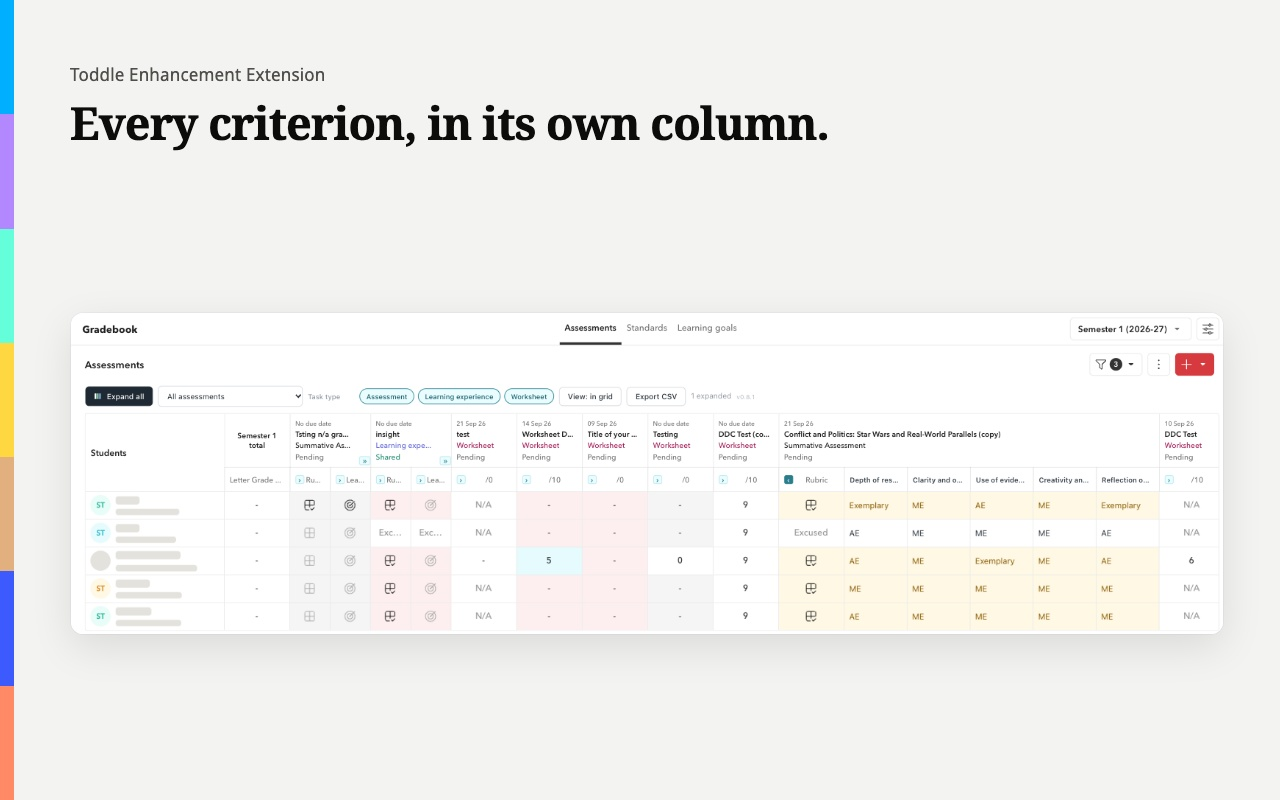
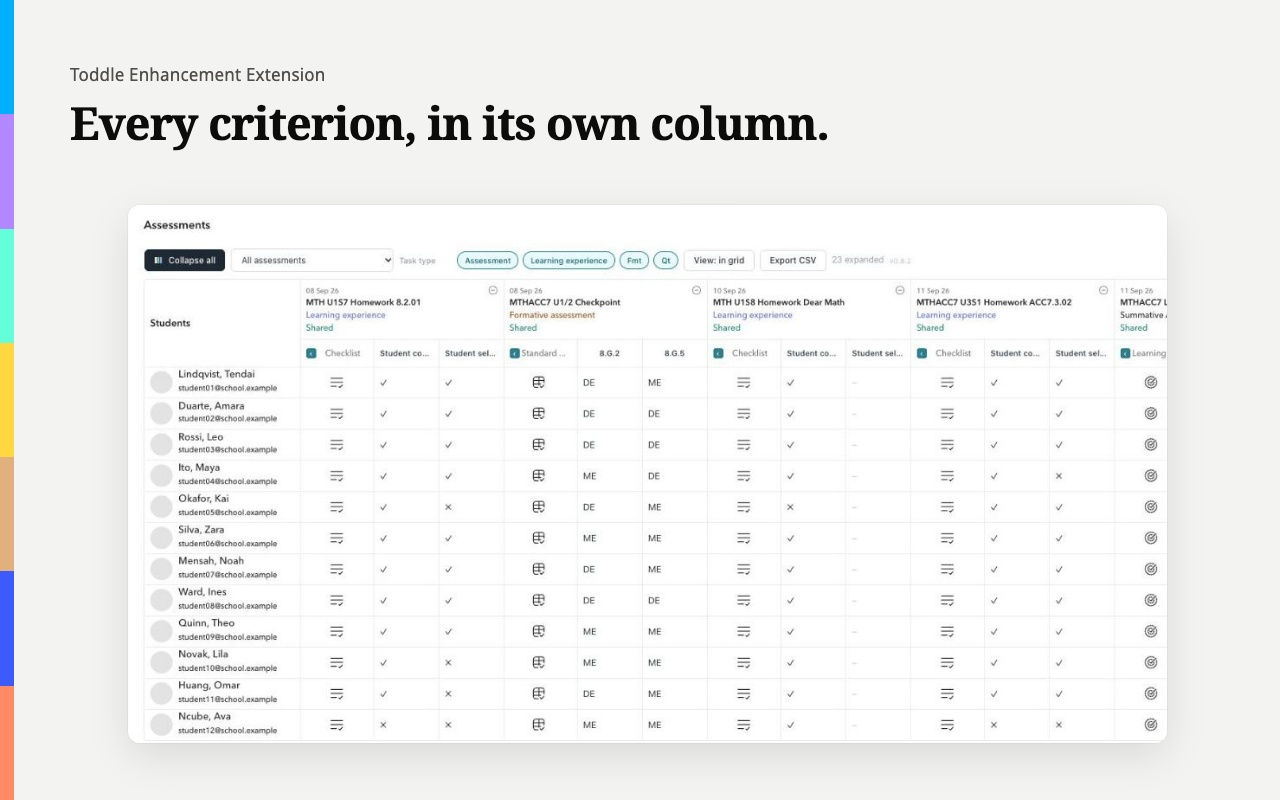
feat: 0.8.2 screenshots on the extension page; an organisation licence is one key per domain
Real Toddle captures with every name, email, phone and photo masked,
framed in the store style. Pricing, terms and llms.txt now say an
organisation licence is one key for the school's email domain.

Claude-Session: https://claude.ai/code/session_01GHjaH1Vt2dVLWU68iz8tFq

diff --git a/src/data/legal.ts b/src/data/legal.ts
@@ -66,7 +66,7 @@ export const pricing = [
     name: "Organisation",
     price: "US$49.99",
     period: "per year",
-    who: "A school. Keys issued per teacher.",
+    who: "A school. One key for your email domain: anyone signed in to Toddle with an address there is covered.",
     buy: "https://buymeacoffee.com/bryany/e/581738",
     includes: [
       "Everything in Individual, for your whole staff",
